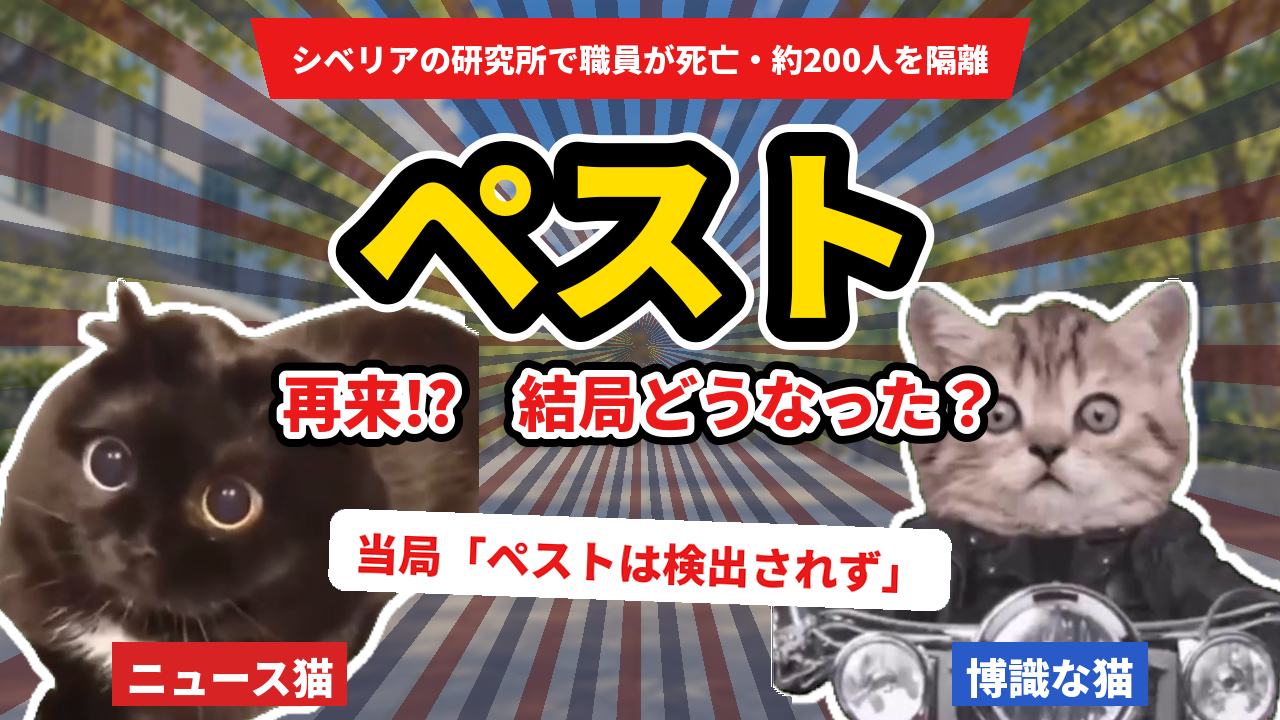
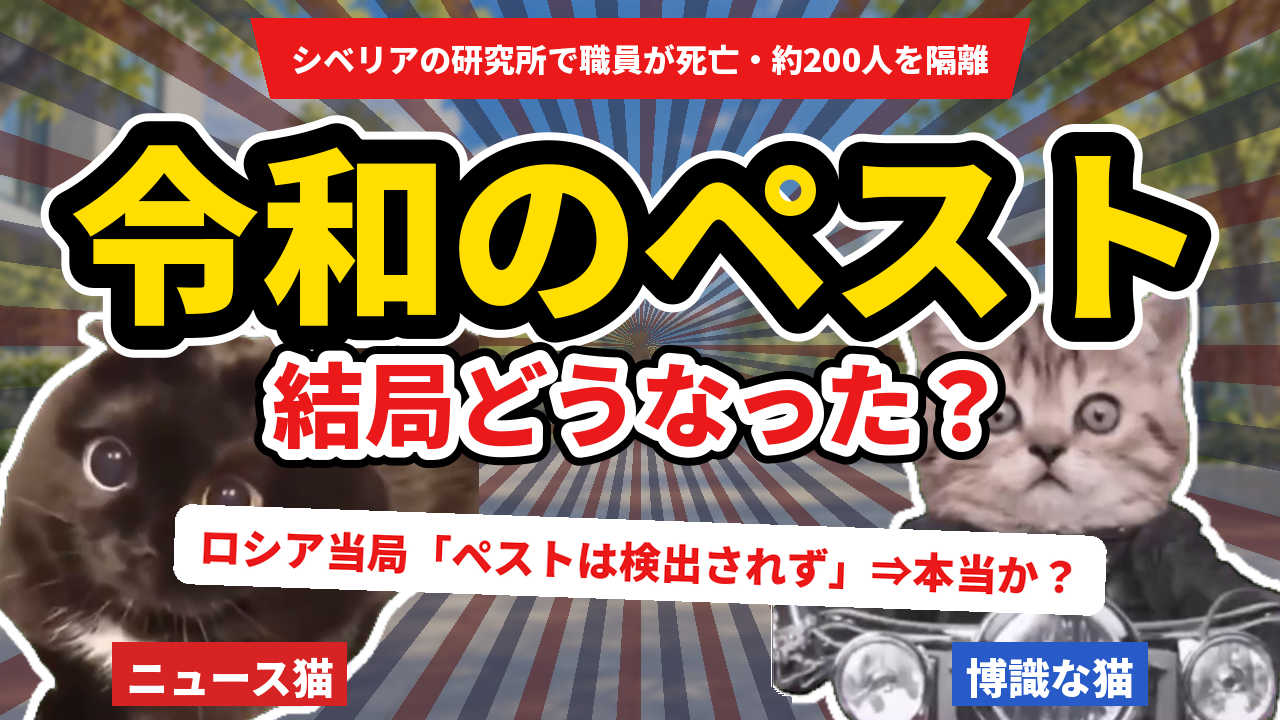
5本目・6本目のショート台本・サムネ・タイトル/説明文、5本目サムネを「令和のペスト」に
Claude-Session: https://claude.ai/code/session_011g9CsrfFD5YswfNSvNDW39

diff --git a/catmeme/short_05_06.py b/catmeme/short_05_06.py
@@ -1,0 +1,140 @@
+"""5本目（ペスト研究所）のショート2本と、6本目（絶望ライン工）のショート1本（縦 1080x1920・45〜58秒）。
+
+python3 catmeme/short_05_06.py 5a  → out/short_05a_what.mp4（研究所で何が起きた？ 結論から）
+python3 catmeme/short_05_06.py 5b  → out/short_05b_cure.mp4（ペストって今も治るの？）
+python3 catmeme/short_05_06.py 6   → out/short_06_zetsubou.mp4（実は既婚で炎上…なにが問題だった？）
+画面の作りは short_04_leak.py と同じ（上：話題の札つきタイトル帯／中：場面かパネル／下：大きな字幕）。
+
+注意：5本目は亡くなった方を笑いにしない・名前を出さない・猫で演じない。「当局はペストを確認していない」を必ず入れる。
+6本目は本人・家族をバカにしない。本人の言葉は報道の要旨だけ（本人役は落ち着いた猫）。
+"""
+import os
+import sys
+
+import short_03_kodomo_nisa as S
+import short_04_leak as Q
+
+HERE = S.HERE
+PURPLE, NORA, COCOA = Q.PURPLE, Q.NORA, Q.COCOA
+KAMI = os.path.join(S.BGM, "神の怒り.mp3")
+NEWS, SAGE = S.NEWS, S.SAGE
+NET, HONNIN = (120, 50, 170), (35, 140, 65)
+YELLOW, RED, NAVY = S.YELLOW, S.RED, S.NAVY
+one, two, panel, items, big, flow = Q.one, Q.two, Q.panel, Q.items, Q.big, Q.flow
+
+
+# ---- 5A：研究所で何が起きた？（結論から） ----
+def cuts_5a():
+    return [
+        one("bg11_tsukuba", "surprise_big_pupils_cat", "ニュース猫", NEWS, "ペスト研究所で\n職員が死亡！？", cap_col=RED,
+            dur=2.8, fx=["lines", "shake"], se=["jan", "doon_heavy"], bgm={"file": PURPLE, "gain": -6}),
+        panel(big("先に結論（10月7日時点）", "ペストは\n検出されず", col=NAVY, note="ロシア当局の発表"), "当局は\nペストを否定",
+              dur=3.4, se="pinpon_notice"),
+        two("bg02_room", "huh_huh_cat", "eat_pop_cat", "え、じゃあ\nなんで騒ぎに？", who="L", dur=2.4, se="question_hatena_maou"),
+        panel(items("何が起きたか", ["9月末　職員（28歳）が体調をくずす", "10/2　重い肺炎で亡くなる", "接触した約200人を隔離・観察",
+                                     "当局「原因不明の肺炎」"]), "時系列で見ると", dur=4.2, se="card_flip"),
+        two("bg11_tsukuba", "weird_meowing_cat", "think_bike_front_seat_cat", "現地メディアは\n「肺ペストの可能性」\nと報道", who="R",
+            dur=3.0, se="doon_movie", bgm={"file": NORA, "gain": -6}),
+        two("bg18_backyard", "surprise_big_pupils_cat", "think_bike_front_seat_cat", "「試験管を割った」\nという話も\n（確認されていない）",
+            who="L", dur=3.0, fx=["lines"], se="glass_break_01"),
+        panel(items("報道と発表が食い違う", ["報道：肺ペストの可能性", "当局：原因不明の肺炎", "報道：約200人を隔離",
+                                         "当局：感染者なし→ほぼ解除"]), "情報が\n食い違った", cap_col=RED, dur=4.4, se="buzzer_wrong"),
+        two("bg02_room", "spin_spinning_cat", "eat_pop_cat", "情報が二転三転して\nもうわからん", who="L", dur=2.6, se="spring_byoin"),
+        panel(items("その後わかったこと", ["約5,000件の検査で　危険な病原体なし", "隔離された人の約9割が解除",
+                                         "接触者に感染者なし（当局）"], note="WHOは死因についてさらに情報を求めている"),
+              "ひとまず\n広がってはいない", dur=4.4, se="pinpoon_correct"),
+        two("bg09_sns", "glare_disgusted_cat", "calm_black_face_sheep", "研究所で\n隔離ってなると\nコロナを思い出す", who="L", dur=2.8,
+            se="kon"),
+        two("bg09_sns", "glare_disgusted_cat", "calm_black_face_sheep", "研究所から漏れた・\n隠してる…などの声は\nどれも確認されていない",
+            who="R", dur=3.4, se="pinpon_notice"),
+        two("bg02_room", "sleepy_sleepy_cat", "think_bike_front_seat_cat", "怖がりすぎず\n続報は公式の発表で\n確認な", who="R",
+            dur=3.0, se="tv_professional_poon", bgm={"file": COCOA, "gain": -6, "fade": 0.8}),
+        one("bg02_room", "sleepy_old_memories_cat", "博識な猫", SAGE, "亡くなった方の\nご冥福を\nお祈りします", dur=3.0, se="chiin_01"),
+        one("bg03_blackboard", "wave_waving_cat", "ニュース猫", NEWS, "ペストってどんな病気？\n本編で解説！", cap_col=YELLOW,
+            h=760, dur=3.0, se="chirin"),
+    ]
+
+
+# ---- 5B：ペストって今も治るの？ ----
+def cuts_5b():
+    return [
+        one("bg11_tsukuba", "weird_meowing_cat", "ニュース猫", NEWS, "ペストって\n歴史の教科書の\nあれ！？", cap_col=RED, dur=2.8,
+            fx=["lines", "shake"], se=["jan", "question_hatena_maou"], bgm={"file": NORA, "gain": -6}),
+        panel(items("そもそも「ペスト」って？", ["細菌（ペスト菌）がおこす感染症", "ネズミ → ノミ → 人", "肺ペストは　せき・飛沫で人へ"]),
+              "細菌の感染症", dur=4.0, se="page_turn_01"),
+        two("bg02_room", "huh_huh_cat", "eat_pop_cat", "ネズミとノミ……", who="L", dur=2.2, se="boing_01"),
+        panel(items("ペストの3つの種類", ["腺ペスト：リンパ節が腫れる", "敗血症ペスト：血液に菌が回る", "肺ペスト：人から人へうつる"]),
+              "種類は3つ", dur=4.0, se="card_flip"),
+        panel(big("黒死病（14世紀）", "ヨーロッパの\n3分の1〜半分が\n亡くなったとされる", note="当時は抗生物質がなかった"),
+              "歴史に残る\n大流行", cap_col=RED, dur=4.0, se="doon_heavy", bgm={"file": KAMI, "gain": -12}),
+        one("bg10_kyoto", "surprise_big_pupils_cat", "ニュース猫", NEWS, "半分！？\nスケールがバグってる", cap_col=RED, dur=2.4,
+            fx=["lines", "shake"], se="explosion_dokaan"),
+        two("bg02_room", "spin_spinning_cat", "think_bike_front_seat_cat", "でも今は\n早めに抗生物質で\n治療すれば治る", who="R",
+            dur=3.2, se="pinpoon_correct", bgm={"file": COCOA, "gain": -6}),
+        two("bg02_room", "spin_spinning_cat", "think_bike_front_seat_cat", "治るのか！\nちょっと安心", who="L", dur=2.2, se="pikon"),
+        panel(items("今もペストはある？", ["世界では毎年患者が出ている", "マダガスカル・コンゴ民主共和国・ペルーなど",
+                                       "日本は1926年を最後に　国内での発生なし"]), "日本は約100年\n発生なし", dur=4.4, se="page_turn_02"),
+        panel(items("じゃあロシアの件は？", ["研究所の職員が亡くなった", "当局は「ペストは検出されず」", "死因は「原因不明の肺炎」（10/7時点）"]),
+              "当局は\nペストを否定", dur=4.2, se="pinpon_notice"),
+        two("bg20_counter", "weird_meowing_cat", "calm_black_face_sheep", "北海道から\n近くない？", who="L", dur=2.4,
+            se="question_hatena_maou"),
+        two("bg20_counter", "weird_meowing_cat", "calm_black_face_sheep", "札幌まで直線で約2,900km\nペストは日本の検疫感染症で\n空港や港で見張ってる",
+            who="R", dur=3.6, se="page_turn_01"),
+        two("bg02_room", "sleepy_sleepy_cat", "think_bike_front_seat_cat", "怖がりすぎず\n続報は公式の発表で\n確認な", who="R",
+            dur=3.0, se="tv_professional_poon"),
+        one("bg03_blackboard", "wave_waving_cat", "ニュース猫", NEWS, "なぜ騒がれた？\n本編で解説！", cap_col=YELLOW, h=760,
+            dur=3.0, se="chirin", bgm={"file": COCOA, "gain": -6, "fade": 0.8}),
+    ]
+
+
+# ---- 6：実は既婚で炎上 ----
+def honnin(a, cap, **kw):
+    return dict(kind="scene", bg=Q.bg("bg14_home_night"), cats=[Q.cat(a, "本人（再現）", 960, HONNIN, h=820)], cap=cap, **kw)
+
+
+def cuts_6():
+    return [
+        one("bg12_liquor_shelf", "surprise_big_pupils_cat", "ニュース猫", NEWS, "年収240万・独身の\n人気YouTuberが\n実は既婚！？", cap_col=RED,
+            dur=3.0, fx=["lines", "shake"], se=["jan", "doon_heavy"], bgm={"file": PURPLE, "gain": -6}),
+        panel(items("どんなチャンネル？", ["「年収240万・43歳独身・工場勤務」", "給与明細・婚活・柴犬との暮らし", "登録者　約68万人"]),
+              "「絶望ライン工」", dur=3.8, se="page_turn_01"),
+        panel(items("炎上までの流れ", ["9/17　「年収240万円『質素な暮らし』」", "9/24　「43歳独身の休日」", "9/28　結婚と子どもの誕生を報告"]),
+              "独身動画の\n4日後に", cap_col=RED, dur=4.2, se="doon_heavy", bgm={"file": NORA, "gain": -6}),
+        one("bg06_spotlight", "weird_meowing_cat", "ニュース猫", NEWS, "4日後！？\n時空ゆがんでない！？", cap_col=RED, dur=2.4,
+            fx=["lines", "shake"], se="explosion_dokaan"),
+        two("bg02_room", "huh_huh_cat", "eat_pop_cat", "え、でも結婚って\nおめでたいじゃん", who="L", dur=2.4, se="question_hatena_maou"),
+        panel(items("怒りのポイントはここ", ["× 結婚したこと", "○ “独身”の本・アルバムを売り続けた", "○ コメント欄を閉じた"]),
+              "結婚が悪いん\nじゃない", dur=4.4, se="card_flip"),
+        honnin("calm_black_face_sheep", "「嘘をついて\nおりました」\n（説明動画の要旨）", dur=3.0, se="pi",
+               bgm={"file": COCOA, "gain": -6}),
+        honnin("sleepy_old_memories_cat", "「“弱者ビジネス”と\n思われても仕方ない\n運営でした」（要旨）", dur=3.2, se="pi"),
+        two("bg14_home_night", "think_bike_front_seat_cat", "work_typing_cat", "家族を伏せたのは\n危害や実害から\n守るためとも説明", who="R",
+            dur=3.2, se="pinpon_notice"),
+        two("bg09_sns", "huh_huh_cat", "work_typing_cat", "10月5日\nチャンネルの\n活動休止を発表", who="R", dur=2.8, se="doon_movie"),
+        panel(items("ネットの声", ["批判：今の看板は下ろさないと違和感", "擁護：あなたが幸せならそれでいい", "考察：余裕のない社会の反映では"]),
+              "批判も応援も", dur=4.2, se="page_turn_02"),
+        two("bg02_room", "sleepy_sleepy_cat", "eat_pop_cat", "“設定”を売るなら\n変わったときの\n畳み方が一番むずかしい", who="R",
+            dur=3.4, se="tv_professional_poon"),
+        two("bg19_kids_room", "sad_banana_cat_cry", "eat_pop_cat", "おめでたいことが\n炎上になるの\n切ないね", who="L", dur=2.8,
+            se="tear_drop"),
+        one("bg03_blackboard", "wave_waving_cat", "ニュース猫", NEWS, "本人の説明・ネットの声は\n本編で解説！", cap_col=YELLOW, h=760,
+            dur=3.0, se="chirin", bgm={"file": COCOA, "gain": -6, "fade": 0.8}),
+    ]
+
+
+SHORTS = {
+    "5a": (cuts_5a, ("ペスト研究所で", "何が起きた⁉"), "ロシア・ペスト研究所", "short_05a_what"),
+    "5b": (cuts_5b, ("ペストって", "今も治るの⁉"), "ロシア・ペスト研究所", "short_05b_cure"),
+    "6": (cuts_6, ("「年収240万・独身」が", "実は既婚で炎上⁉"), "絶望ライン工　炎上", "short_06_zetsubou"),
+}
+
+
+def main():
+    for key in sys.argv[1:] or list(SHORTS):
+        fn, title, label, name = SHORTS[key]
+        S.run(fn(), Q.title_band(*title, label=label), os.path.join(HERE, "out", name + ".mp4"),
+              os.path.join(HERE, "out", name + "_preview"))
+
+
+if __name__ == "__main__":
+    main()

diff --git a/catmeme/make_thumb_short_05_06.py b/catmeme/make_thumb_short_05_06.py
@@ -1,0 +1,67 @@
+"""5本目のショート2本・6本目のショート1本のサムネ（縦 1080x1920）。
+
+python3 catmeme/make_thumb_short_05_06.py → thumbs/short_05a_what.png, short_05b_cure.png, short_06_zetsubou.png
+作りは make_thumb_short_04.py と同じ（いちばん上に話題の帯／大きなタイトル／真ん中の札／下に猫2匹とひとこと）。
+注意：5本目は亡くなった方がいるので、ふざけたひとことは入れない。6本目は本人・家族をバカにしない。
+"""
+from PIL import Image, ImageDraw
+
+import parts as P
+from make_thumb_03 import fit_text
+from make_thumb_short_04 import BLACK, NAVY, RED, W, WHITE, YELLOW, base, cats, save, topic_band, words
+
+
+def board(img, text, y, fill, fg, size, rot):
+    """真ん中の大きな札（\\n で改行）。"""
+    f = P.font("black", size)
+    lines = text.split("\n")
+    bw, bh = 1000, int(size * 1.25 * len(lines)) + 50
+    b = Image.new("RGBA", (bw, bh), (0, 0, 0, 0))
+    bd = ImageDraw.Draw(b)
+    bd.rounded_rectangle((0, 0, bw - 1, bh - 1), 28, fill=fill, outline=BLACK if fill == WHITE else WHITE, width=9)
+    for n, t in enumerate(lines):
+        bd.text((bw / 2, 25 + size * 0.62 + n * size * 1.25), t, font=f, fill=fg, anchor="mm")
+    b = b.rotate(rot, expand=True, resample=Image.BICUBIC)
+    img.alpha_composite(b, (int(W / 2 - b.width / 2), y))
+
+
+def thumb_5a():
+    img = base("bg11_tsukuba", ((150, 40, 40, 140), (70, 70, 110, 130)), bg_dir="01_todai")
+    d = ImageDraw.Draw(img)
+    topic_band(img, "ロシア・ペスト研究所")
+    fit_text(d, (W / 2, 330), "令和のペスト？　200人隔離", 1030, 110, WHITE, BLACK, double=None)
+    fit_text(d, (W / 2, 520), "何が起きた⁉", 1040, 190, YELLOW, BLACK, double=WHITE)
+    board(img, "ロシア当局\n「ペストは検出されず」\n⇒本当か？", 640, WHITE, NAVY, 86, -2)
+    cats(img, ("surprise_big_pupils_cat", 0.6, False), ("think_bike_front_seat_cat", 1.0, True))
+    words(img, [("じゃあ何が…？", 250, 1250, 80, WHITE, 8)])
+    save(img, "short_05a_what")
+
+
+def thumb_5b():
+    img = base("bg10_kyoto", ((255, 60, 60, 140), (255, 210, 0, 120)), bg_dir="01_todai")
+    d = ImageDraw.Draw(img)
+    topic_band(img, "ロシア・ペスト研究所")
+    fit_text(d, (W / 2, 330), "黒死病のペストって", 1030, 120, WHITE, BLACK, double=None)
+    fit_text(d, (W / 2, 520), "今も治るの⁉", 1040, 190, YELLOW, BLACK, double=WHITE)
+    board(img, "抗生物質で\n治療できる", 660, RED, WHITE, 120, -2)
+    cats(img, ("weird_meowing_cat", 1.0, False), ("calm_black_face_sheep", 0.5, True))
+    words(img, [("治るの！？", 250, 1250, 100, WHITE, 8), ("日本は100年\n発生なし", 800, 1260, 76, RED, -8)])
+    save(img, "short_05b_cure")
+
+
+def thumb_6():
+    img = base("bg14_home_night", ((255, 60, 60, 150), (255, 210, 0, 130)), bg_dir="02_october")
+    d = ImageDraw.Draw(img)
+    topic_band(img, "絶望ライン工　炎上")
+    fit_text(d, (W / 2, 330), "「年収240万・独身」が", 1030, 120, WHITE, BLACK, double=None)
+    fit_text(d, (W / 2, 520), "実は既婚⁉", 1040, 200, YELLOW, BLACK, double=WHITE)
+    board(img, "“独身の休日”の\n4日後に結婚報告", 660, RED, WHITE, 104, -2)
+    cats(img, ("surprise_big_pupils_cat", 0.6, False), ("huh_huh_cat", 1.0, True))
+    words(img, [("4日後！？", 250, 1250, 110, WHITE, 8), ("なぜ炎上？", 800, 1260, 96, RED, -8)])
+    save(img, "short_06_zetsubou")
+
+
+if __name__ == "__main__":
+    thumb_5a()
+    thumb_5b()
+    thumb_6()

diff --git a/catmeme/make_thumb_05_06.py b/catmeme/make_thumb_05_06.py
@@ -17,9 +17,9 @@ THUMBS = {
     "05_plague": dict(
         bg_dir="01_todai", bg="bg11_tsukuba", ray_cols=((120, 40, 40), (60, 60, 90)),
         left=("surprise_big_pupils_cat", 0.6, False, "ニュース猫", NEWS), right=("think_bike_front_seat_cat", 1.0, False, "博識な猫", SAGE),
-        top="シベリアの研究所で職員が死亡・約200人を隔離", big="ペスト", sub="再来!?　結局どうなった？", badge="",
+        top="シベリアの研究所で職員が死亡・約200人を隔離", big="令和のペスト", sub="結局どうなった？", badge="",
         cat_h=470, tags=True,
-        stickers=(("当局「ペストは検出されず」", 640, 560, 44, WHITE, RED, -2),),
+        stickers=(("ロシア当局「ペストは検出されず」⇒本当か？", 640, 560, 42, WHITE, RED, -2),),
         words=()),
     "06_zetsubou": dict(
         bg_dir="02_october", bg="bg14_home_night", ray_cols=((255, 60, 60), (255, 210, 0)),

diff --git a/catmeme/short_04_leak.py b/catmeme/short_04_leak.py
@@ -32,14 +32,14 @@ def bg(n):
     raise FileNotFoundError(n)
 
 
-def title_band(top, main):
+def title_band(top, main, label="個人情報流出問題"):
     img = Image.new("RGBA", (SW, 400), (0, 0, 0, 0))
     d = ImageDraw.Draw(img)
     d.rectangle((0, 0, SW, 400), fill=NAVY)
     d.polygon([(0, 330), (SW, 300), (SW, 400), (0, 400)], fill=RED)
     # いちばん上に「何の話か」の札
     d.rounded_rectangle((250, 14, SW - 250, 104), 20, fill=RED, outline=WHITE, width=5)
-    img.alpha_composite(text_img("個人情報流出問題", SW - 520, 90, 62, fill=WHITE), (260, 14))
+    img.alpha_composite(text_img(label, SW - 520, 90, 62, fill=WHITE), (260, 14))
     img.alpha_composite(text_img(top, SW, 105, 88, fill=WHITE), (0, 108))
     img.alpha_composite(text_img(main, SW, 150, 130, fill=YELLOW), (0, 200))
     return img

diff --git a/catmeme/make_thumb_short_04.py b/catmeme/make_thumb_short_04.py
@@ -17,8 +17,8 @@ W, H = 1080, 1920
 YELLOW, RED, WHITE, BLACK, NAVY, ORANGE = (255, 222, 0), (235, 25, 25), (255, 255, 255), (0, 0, 0), (25, 32, 56), (240, 110, 40)
 
 
-def base(bg_name, ray_cols):
-    bg = Image.open(os.path.join(HERE, "backgrounds", "04_leak", bg_name + ".png")).convert("RGB")
+def base(bg_name, ray_cols, bg_dir="04_leak"):
+    bg = Image.open(os.path.join(HERE, "backgrounds", bg_dir, bg_name + ".png")).convert("RGB")
     bg = bg.resize((int(bg.width * H / bg.height), H))
     x0 = (bg.width - W) // 2
     img = bg.crop((x0, 0, x0 + W, H)).filter(ImageFilter.GaussianBlur(4)).convert("RGBA")

diff --git a/catmeme/scripts/short_05_06_youtube.md b/catmeme/scripts/short_05_06_youtube.md
@@ -1,0 +1,98 @@
+# ショート：5本目（ペスト研究所）2本・6本目（絶望ライン工）1本のタイトル・説明文
+
+## 5A：研究所で何が起きた？（short_05a_what）
+
+### タイトル（おすすめ順・どれも40字以内）
+1. 【令和のペスト？】ロシアの研究所で何が起きた⁉【猫ミーム】
+2. 職員死亡・200人隔離…ロシア当局「ペストは検出されず」は本当？【猫ミーム】
+3. ペスト研究所の騒ぎを1分で整理【猫ミーム】
+
+### 説明文
+```
+ロシア・シベリアの「ペスト対策の研究所」で28歳の職員が亡くなり、接触した約200人が隔離・観察に。
+現地メディアは「肺ペストの可能性」、ロシア当局は「ペストは検出されず」。食い違う情報を1分で整理しました。
+
+ペストってどんな病気？は本編で解説👇
+（本編のURL）
+
+※亡くなった方のご冥福をお祈りします
+※ロシア当局は「ペストは確認されていない」と発表しています（10月7日時点）
+※「研究所から漏れた」などの話は確認されていません
+※猫はすべて演出です
+
+#猫ミーム #ペスト #shorts
+```
+
+### タグ
+猫ミーム, ペスト, ロシア
+
+### サムネ
+thumbs/short_05a_what.png
+
+---
+
+## 5B：ペストって今も治るの？（short_05b_cure）
+
+### タイトル（おすすめ順・どれも40字以内）
+1. 【令和のペスト？】黒死病のペストって今も治るの⁉【猫ミーム】
+2. ペストは抗生物質で治る？ 日本は100年発生なし【猫ミーム】
+3. 歴史の教科書の「ペスト」を1分で解説【猫ミーム】
+
+### 説明文
+```
+ロシアの研究所の件で話題の「ペスト」。14世紀の黒死病ではヨーロッパの3分の1〜半分が亡くなったとされますが、
+今は早めに抗生物質で治療すれば治る病気です。種類・今の世界の状況・日本への影響を1分でまとめました。
+
+研究所で何が起きたのかは本編で解説👇
+（本編のURL）
+
+※ロシア当局は「ペストは確認されていない」と発表しています（10月7日時点）
+※体調に不安があるときは、医療機関に相談してください
+※猫はすべて演出です
+
+#猫ミーム #ペスト #shorts
+```
+
+### タグ
+猫ミーム, ペスト, 黒死病
+
+### サムネ
+thumbs/short_05b_cure.png
+
+---
+
+## 6：実は既婚で炎上（short_06_zetsubou）
+
+### タイトル（おすすめ順・どれも40字以内）
+1. 【絶望ライン工】「年収240万・独身」が実は既婚⁉ なぜ炎上？【猫ミーム】
+2. 「独身の休日」の4日後に結婚報告…何が問題だった？【猫ミーム】
+3. 絶望ライン工の結婚炎上を1分で整理【猫ミーム】
+
+### 説明文
+```
+「年収240万・43歳独身」のキャラで人気だったYouTuber「絶望ライン工」。
+“独身の休日”を出した4日後に、結婚と子どもの誕生を報告して炎上。怒りのポイントはどこだったのか、1分で整理しました。
+
+本人の説明・ネットの声は本編で解説👇
+（本編のURL）
+
+※本人の言葉は、報道・本人の説明動画をもとにした要旨です
+※ご家族を批判・詮索する動画ではありません
+※猫はすべて演出です
+
+#猫ミーム #絶望ライン工 #shorts
+```
+
+### タグ
+猫ミーム, 絶望ライン工, 炎上
+
+### サムネ
+thumbs/short_06_zetsubou.png
+
+---
+
+## 投稿メモ
+- 本編を先に公開して、説明文の（本編のURL）を差し替える
+- 5本目のショートは、公開直前に最新の報道を確認（状況が変わっていたら作り直す）
+- 本編側の「関連動画」に、それぞれのショートをリンクしておく
+- 子ども向け：いいえ／改変されたコンテンツ：いいえ

diff --git a/catmeme/scripts/05_plague_youtube.md b/catmeme/scripts/05_plague_youtube.md
@@ -1,12 +1,12 @@
 # 05 ロシアのペスト研究所：YouTube のタイトル・説明文・タグ
 
 ## タイトル（おすすめ順）
-1. 【猫ミーム】ロシアの「ペスト研究所」で職員死亡・約200人隔離…ペスト再来？ 結局どうなった #猫ミーム
+1. 【猫ミーム】令和のペスト？ ロシアの研究所で職員死亡・約200人隔離…結局どうなった #猫ミーム
 2. 【猫ミーム】「ペストは検出されず」でも騒がれる理由…シベリア研究所の件をゆるっと整理 #猫ミーム
 3. 【猫ミーム】ペストって今も治るの？ 黒死病の歴史と、ロシアの研究所で起きたこと #猫ミーム
 
 ## サムネ
-- thumbs/05_plague.png（「ペスト 再来!? 結局どうなった？」＋札「当局『ペストは検出されず』」）
+- thumbs/05_plague.png（「令和のペスト 結局どうなった？」＋札「ロシア当局『ペストは検出されず』⇒本当か？」）
 
 ## 説明文
 
